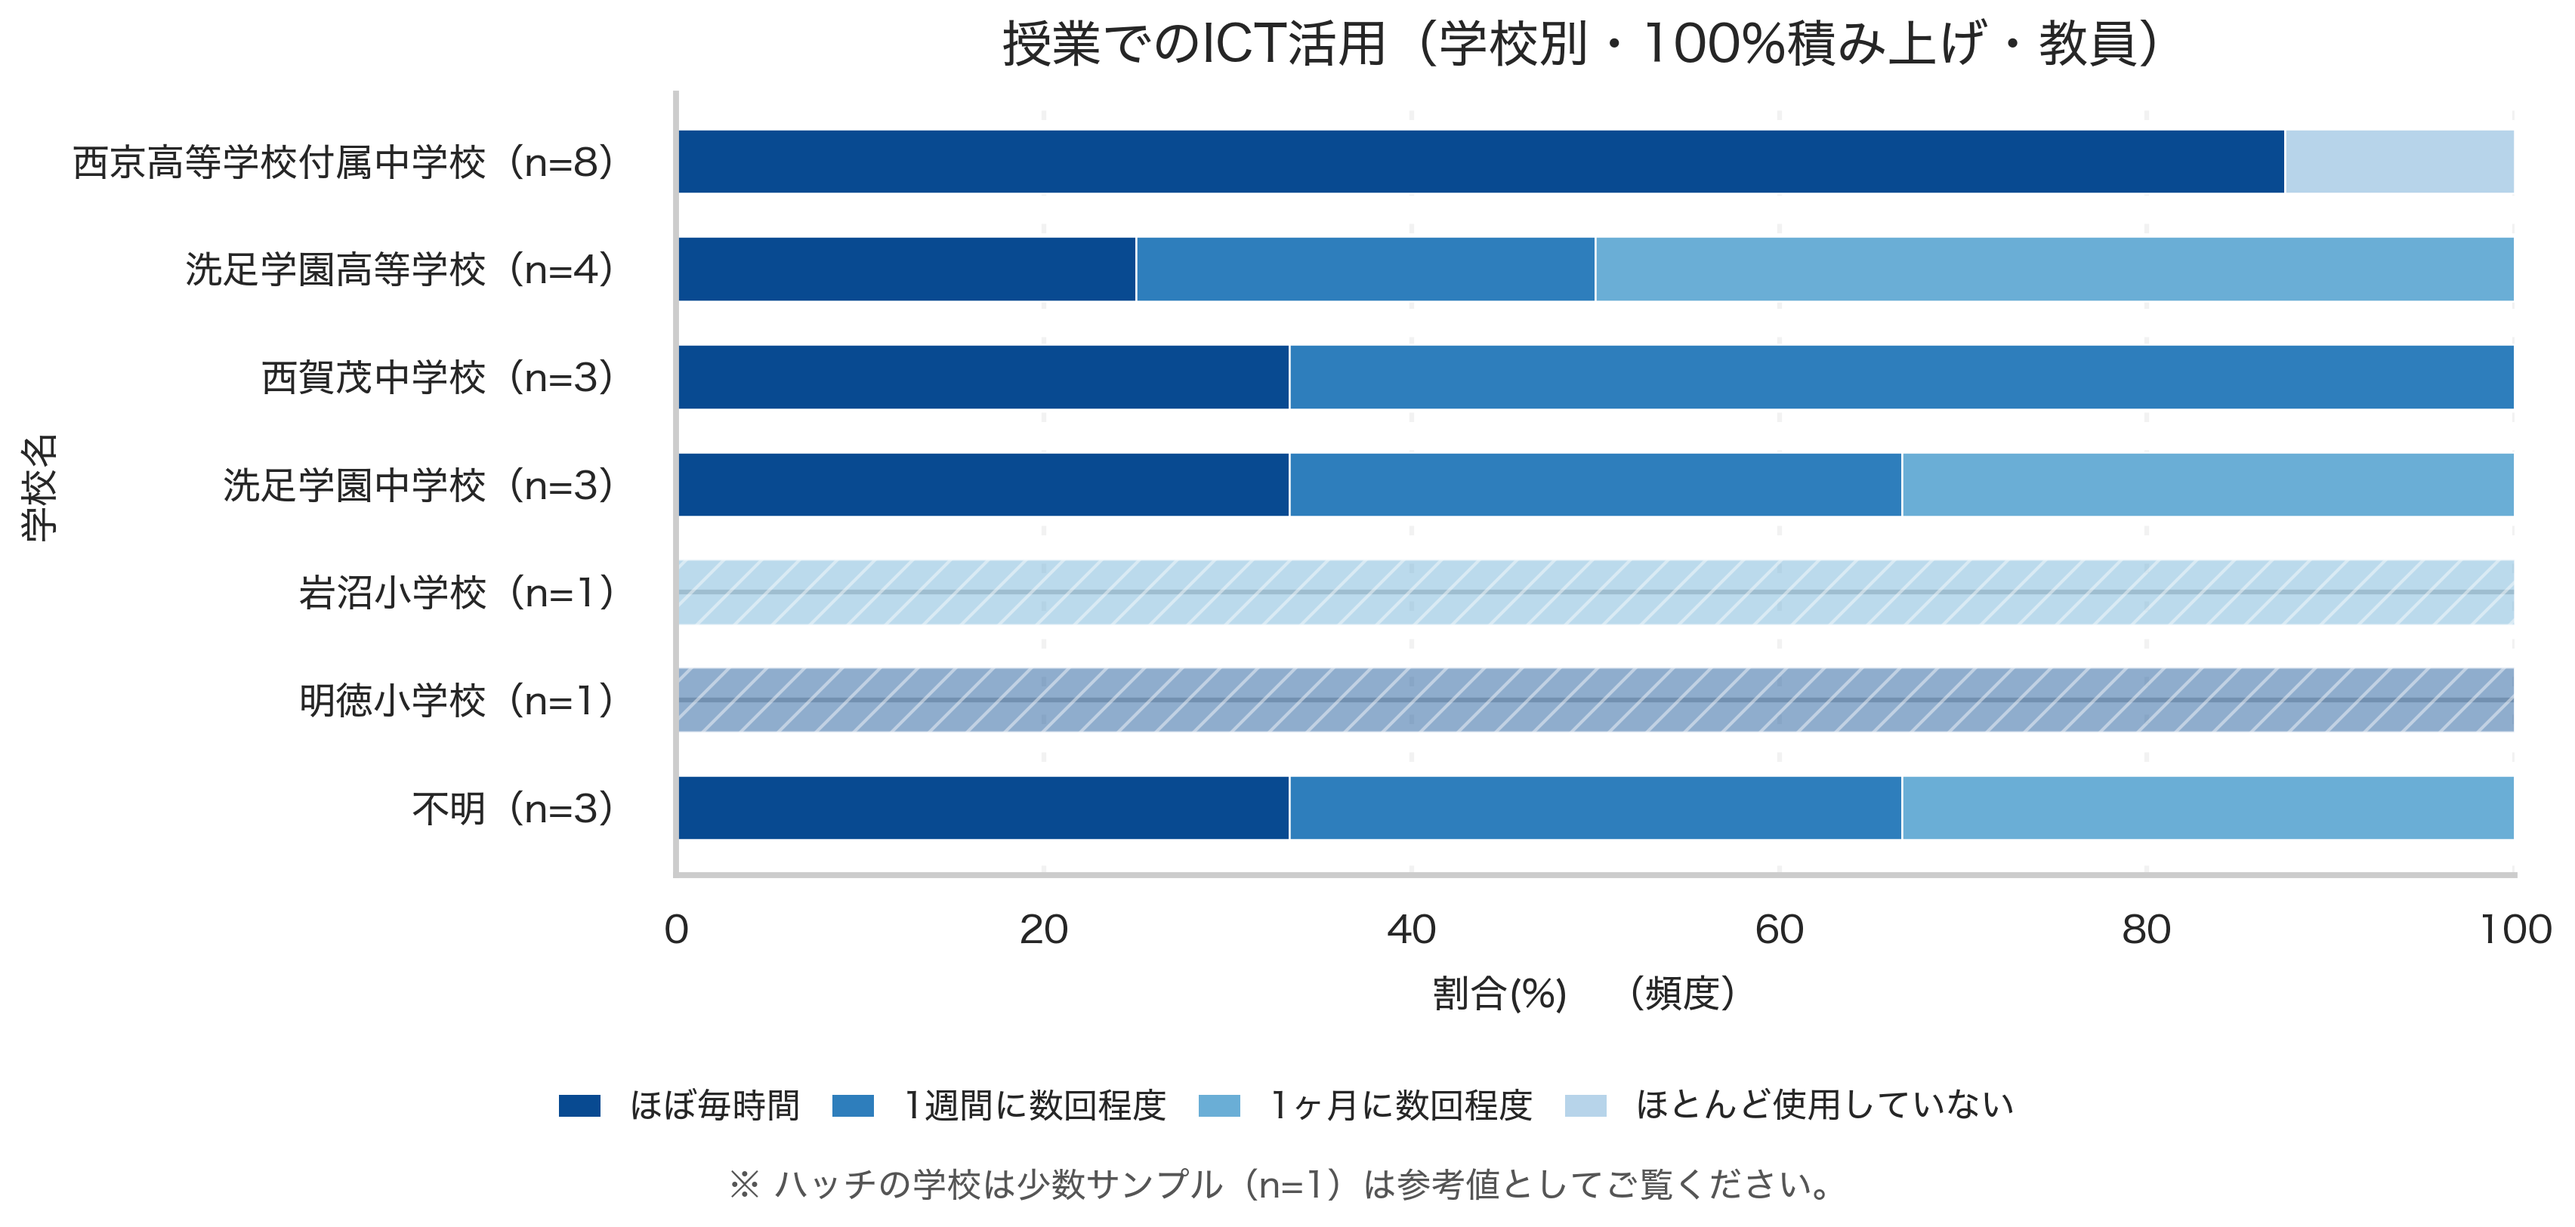
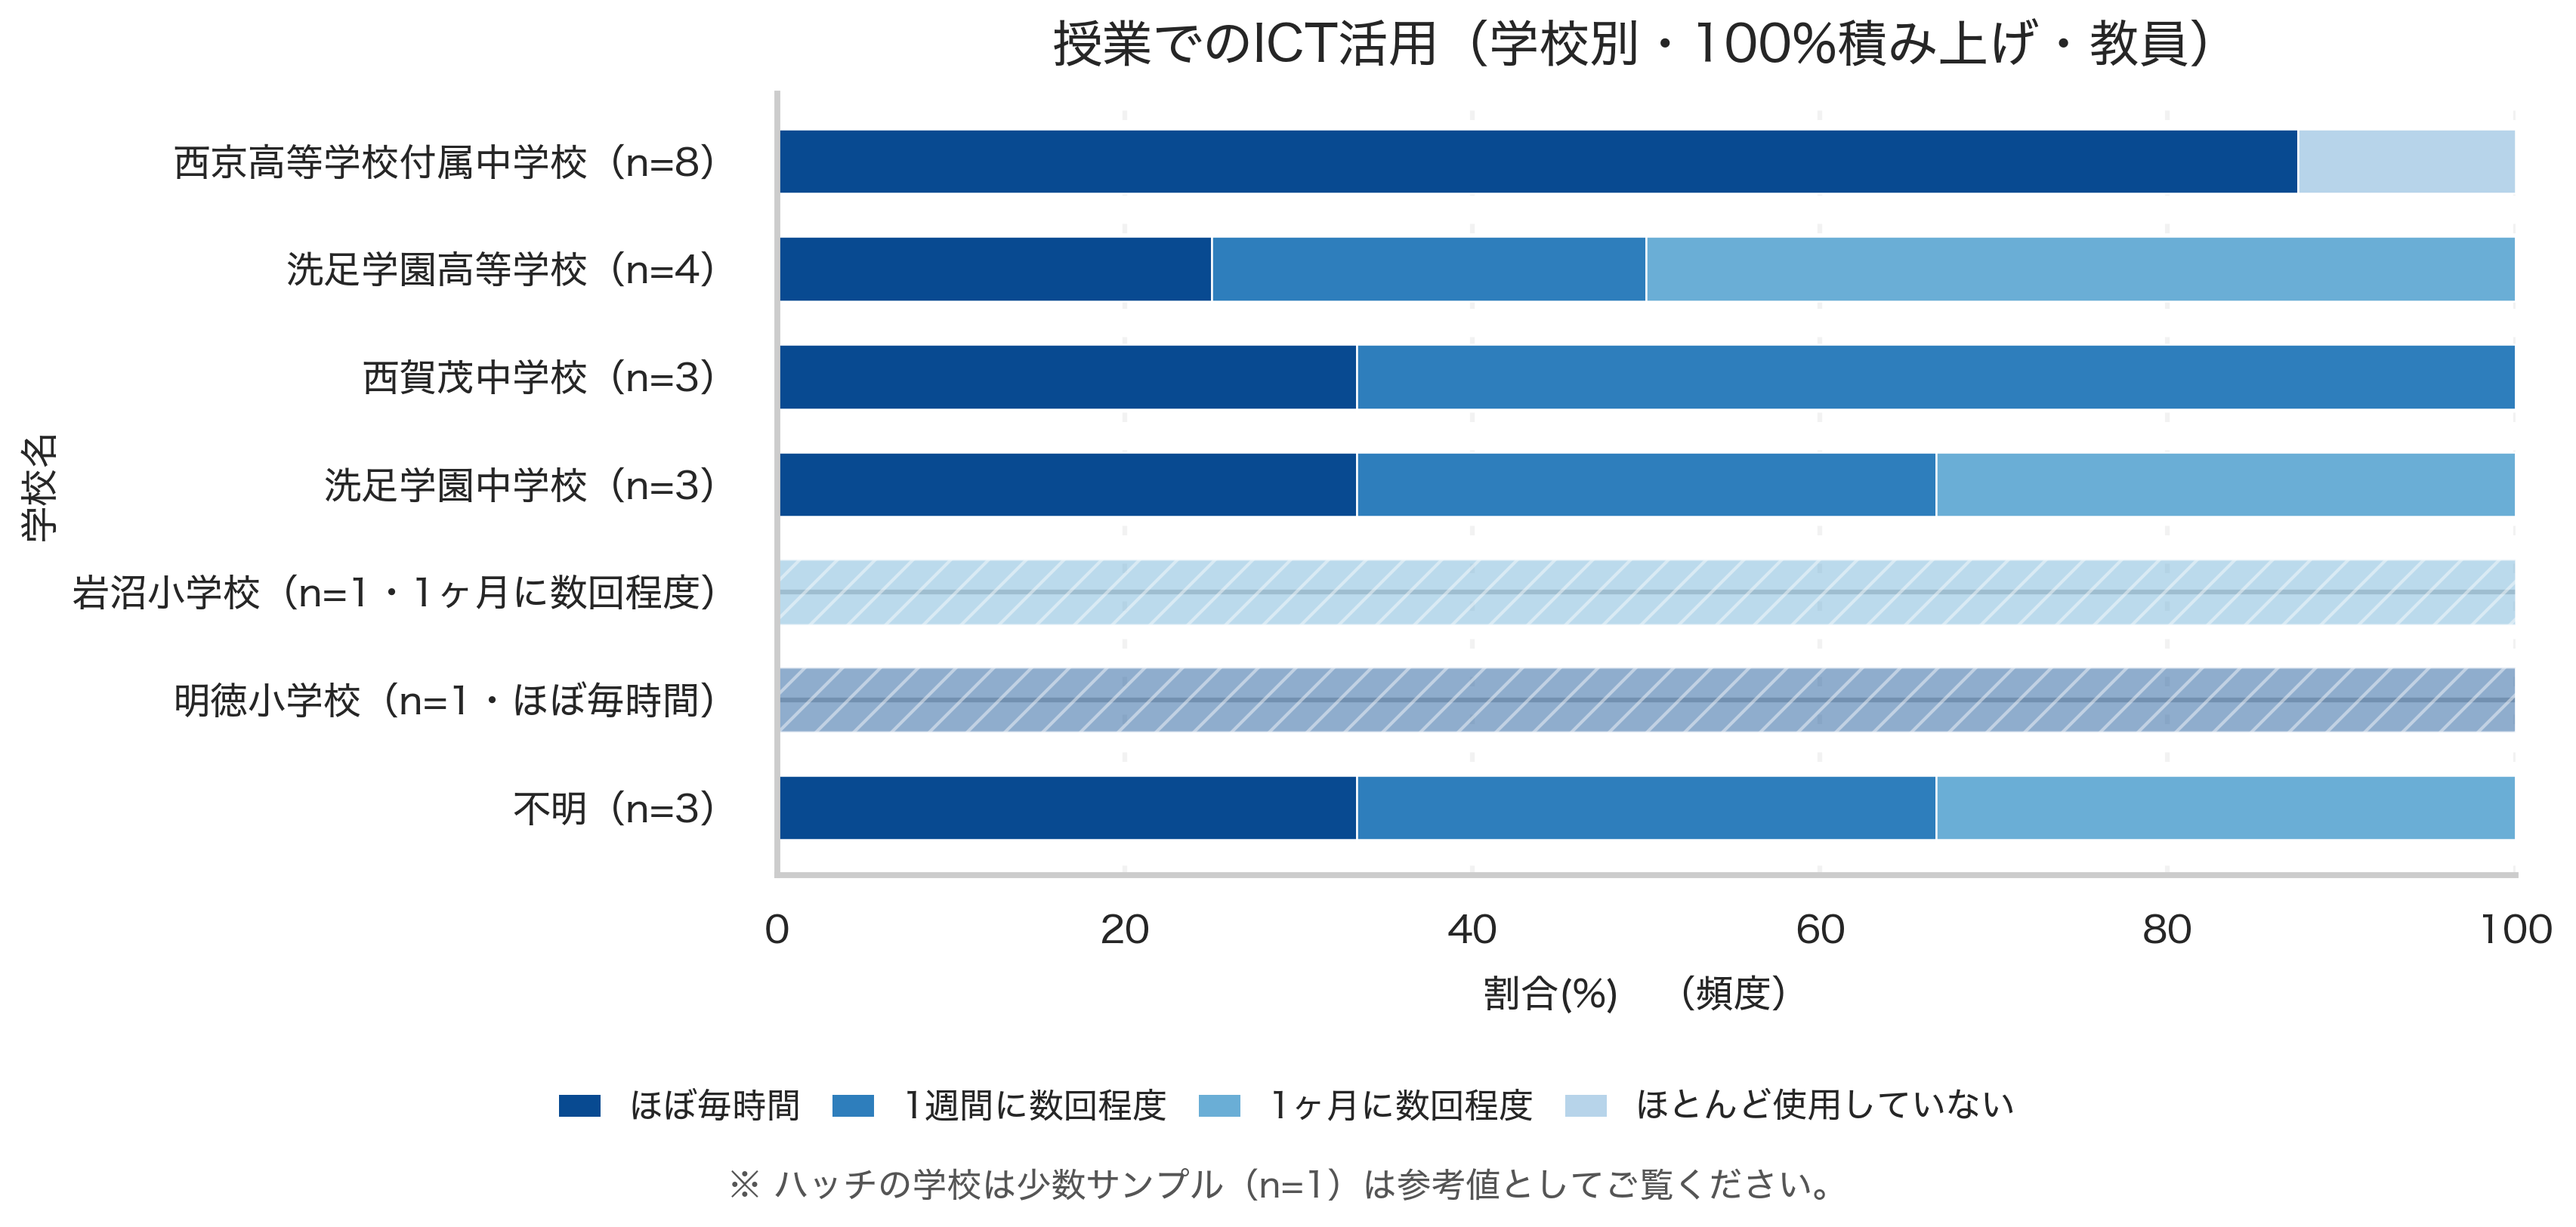
more changes_

diff --git a/scripts/charts_teachers/q06_ict_by_school.py b/scripts/charts_teachers/q06_ict_by_school.py
@@ -135,6 +135,27 @@ def _category_colors(categories: list[str]) -> dict[str, tuple]:
     }
     return {c: shade.get(c, cmap(0.40)) for c in categories}
 
+# ---- Small-N helper ---------------------------------------------------------
+def small_n_dominant_labels(
+    pct_df: pd.DataFrame,
+    n_per_group: pd.Series,
+    threshold: int = SMALL_N_THRESHOLD,
+) -> dict[str, str | None]:
+    """
+    For groups with n < threshold, return the label of the dominant category
+    (ties resolved by idxmax order). Hide '不明' and 'その他'.
+    """
+    labels: dict[str, str | None] = {}
+    for school in pct_df.index:
+        n = int(n_per_group.loc[school])
+        if n < threshold:
+            row = pct_df.loc[school]
+            dom = row.idxmax() if row.max() > 0 else None
+            if dom in (None, "不明", "その他"):
+                dom = None
+            labels[school] = dom
+    return labels
+
 # ---- Plotting ---------------------------------------------------------------
 PLOT_DPI       = 300
 BASE_FONTSIZE  = 12
@@ -156,15 +177,26 @@ def plot_bar_100pct_h(
     legend_title: str,
     out_png: Path,
     out_csv: Path,
+    *,
+    small_n_dom: dict[str, str] | None = None,   # NEW
 ):
+    small_n_dom = small_n_dom or {}
+
     # Save CSV (percentages rounded + n)
     out = pct_df.round(1).copy()
     out["n"] = n_per_group
     out.to_csv(out_csv, encoding="utf-8", index=True)
 
-    # Labels with n
+    # Labels with n (+ dominant category for small-n)
     base_labels = pct_df.index.tolist()
-    y_labels = [f"{lab}（n={int(n_per_group.loc[lab])}）" for lab in base_labels]
+    y_labels: list[str] = []
+    for lab in base_labels:
+        n = int(n_per_group.loc[lab])
+        dom = small_n_dom.get(lab)
+        if n < SMALL_N_THRESHOLD and dom:
+            y_labels.append(f"{lab}（n={n}・{dom}）")
+        else:
+            y_labels.append(f"{lab}（n={n}）")
 
     # Colors (dark -> light)
     cat_colors = _category_colors(list(pct_df.columns))
@@ -200,28 +232,27 @@ def plot_bar_100pct_h(
     ax.set_title(title, fontsize=TITLE_FONTSIZE, pad=10)
 
     # Reserve a bottom band for legend (top line) + footnote (bottom line)
-    # rect = [left, bottom, right, top] in figure coords
-    plt.tight_layout(rect=[0.02, 0.125, 0.98, 0.90])   # ↓ even smaller bottom margin
+    plt.tight_layout(rect=[0.02, 0.125, 0.98, 0.90])
 
     # Legend on its own line between xlabel and footnote
     handles = [Patch(facecolor=cat_colors[c], edgecolor="none", label=c) for c in pct_df.columns]
     fig.legend(
-    handles=handles,
-    loc="lower center",
-    ncol=len(handles),
-    frameon=False,
-    fontsize=11,
-    bbox_to_anchor=(0.5, 0.082),  # slightly closer to the x-axis
-    borderaxespad=0.0,
-    handlelength=1.2, handleheight=0.6,
-    columnspacing=0.9, labelspacing=0.35,
+        handles=handles,
+        loc="lower center",
+        ncol=len(handles),
+        frameon=False,
+        fontsize=11,
+        bbox_to_anchor=(0.5, 0.082),
+        borderaxespad=0.0,
+        handlelength=1.2, handleheight=0.6,
+        columnspacing=0.9, labelspacing=0.35,
     )
 
     # Footnote at the very bottom of the reserved band
     fig.text(
-    0.5, 0.048,
-    "※ ハッチの学校は少数サンプル（n=1）は参考値としてご覧ください。",
-    ha="center", va="center", fontsize=11, color="#555"
+        0.5, 0.048,
+        "※ ハッチの学校は少数サンプル（n=1）は参考値としてご覧ください。",
+        ha="center", va="center", fontsize=11, color="#555"
     )
 
     fig.patch.set_facecolor("white")
@@ -317,6 +348,9 @@ def main():
     pct_df = pct_df.loc[final_idx]
     n_per_group = n_per_group.loc[final_idx]
 
+    # Compute small-n dominant categories (for label augmentation)
+    small_n_dom = small_n_dominant_labels(pct_df, n_per_group, threshold=SMALL_N_THRESHOLD)
+
     # Plot & write
     plot_bar_100pct_h(
         pct_df=pct_df,
@@ -327,6 +361,7 @@ def main():
         legend_title=LEGEND_TITLE,
         out_png=OUT_PNG,
         out_csv=OUT_CSV,
+        small_n_dom=small_n_dom,  # NEW
     )
 
 if __name__ == "__main__":
